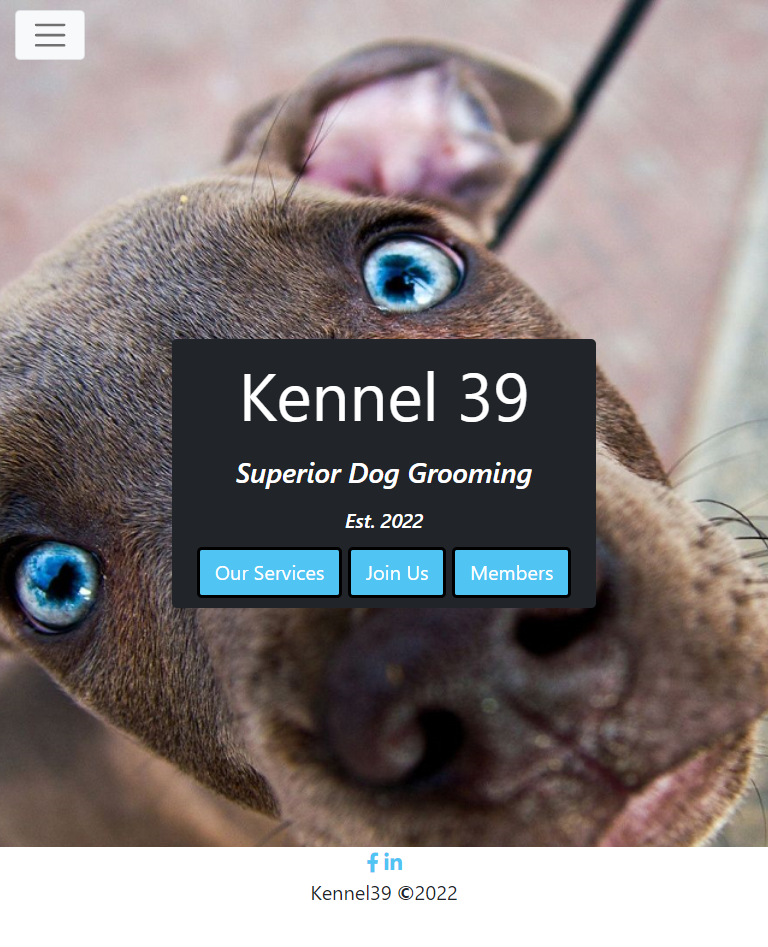
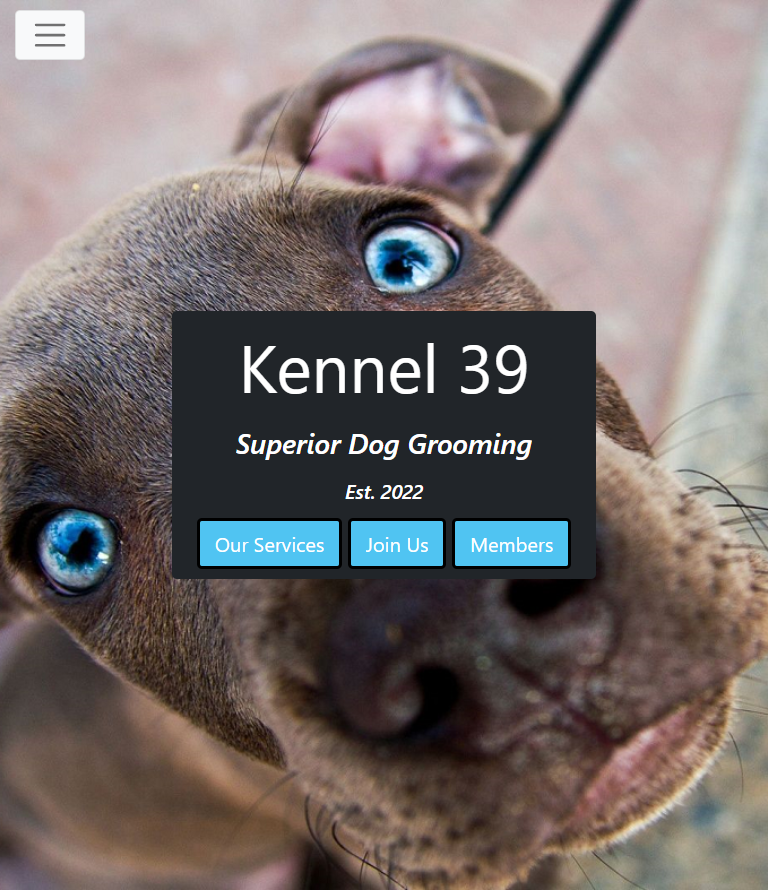
Update feature images, explore future features

diff --git a/README.md b/README.md
@@ -189,7 +189,10 @@ The user understands the site's purpose on arrival.
 
 ### Minimised navigation 
 The whole site uses a collapsable menu to save screen real estate on all resolutions.
-Menu options change depending on whether or not the user is logged in.
+
+It occupies the whole screen to encourage the user to make a decision where to navigate to.
+
+Menu options also change depending on whether or not the user is logged in.
 
 ![dynamic-menu-options-1](docs/readme/features/01-features-dynamic-menu-options-1.png "dynamic-menu-options-1")
 
@@ -198,6 +201,8 @@ Menu options change depending on whether or not the user is logged in.
 ### Fixed footer
 Links are always available at the bottom of the page for all viewscreen sizes.
 
+It has been intentionally omitted from the landing page for styling purposes.
+
 To assist user, link elements change style when hovering.
 
 ![fixed-footer](docs/readme/features/03-features-fixed-footer.png "fixed-footer")
@@ -205,9 +210,11 @@ To assist user, link elements change style when hovering.
 ### CTA buttons on landing page
 If user is logged in, an additional `Book Now` button becomes available.  This is a short cut to the *view booking* template.
 
-To enhance user experience, buttons change style when hovering.
-
 ![cta-not-logged-in](docs/readme/features/04-features-cta-not-logged-in.png "cta-not-logged-in")
+
+Additionally the registration and logon CTA buttons are hidden when a user is authenticated.  They aren't required in this context.
+
+To enhance user experience, buttons change style when hovering.
 
 ![cta-logged-in](docs/readme/features/05-features-cta-logged-in.png "cta-logged-in")
 
@@ -284,6 +291,12 @@ This was the first occasion using allauth which more than met project needs.  It
 Only by addressing this can the user account edit/update/delete functionality be realised in the front-end. (Bookings were the highest priority for this project).
 
 A good source to aid with this expansion is by [Vitor Freitas](https://simpleisbetterthancomplex.com/tutorial/2016/07/22/how-to-extend-django-user-model.html#onetoone).
+
+It would be preferable to give a user their own page to view appointments.
+
+Also why not provide buttons to work in conjucction with a datepicker.  The latter provides a date, each button can represent an appointment time.  These values can be queried against existing Book table entries and let the user know if the appointent is available.
+
+The next logical step with this approach is to change the colour of these buttons based upon that time being available.  For example, taken appointments are greyed out completely or hidden.
 
 ## Testing
 
